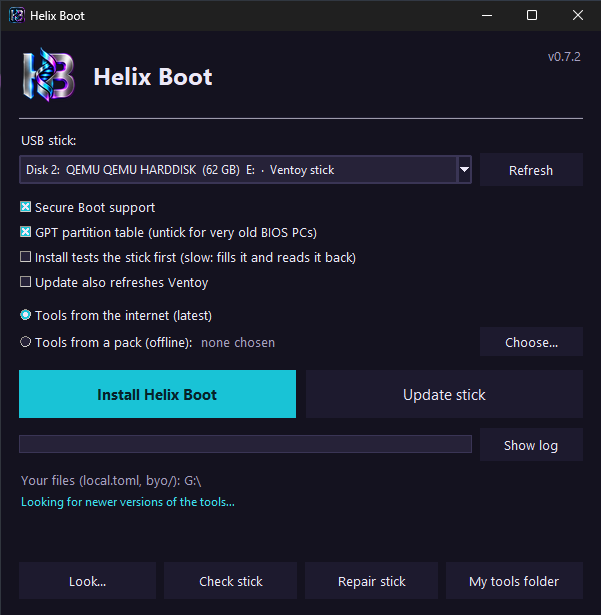
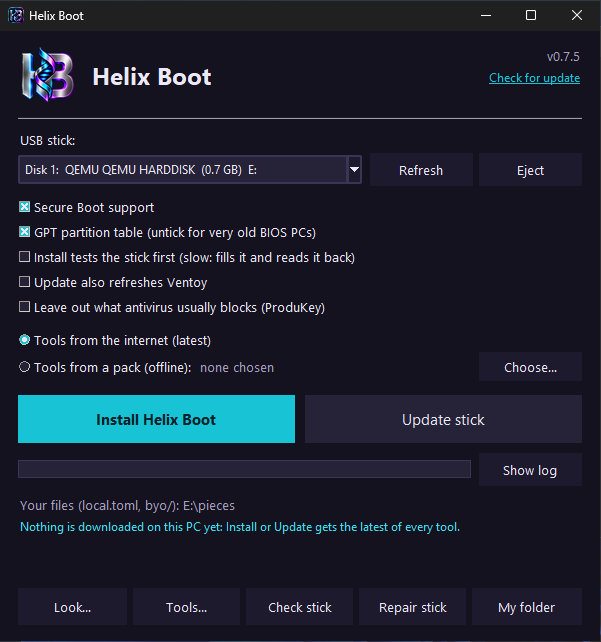
What was tried on real Windows today; the app's window centred; taking a stick back from a VM waits for it to be replugged

diff --git a/windows/helix_boot.py b/windows/helix_boot.py
@@ -836,7 +836,11 @@ def gui(selftest: bool = False) -> int:
 
     root = tk.Tk()
     root.title(APP)
-    root.geometry(f"{WINDOW[0]}x{WINDOW[1]}")
+    # In the middle of the screen, a little above it: where the system would put it, the bottom row
+    # can end up under the taskbar on a small screen (1366 x 768, or a virtual machine's).
+    across = max((root.winfo_screenwidth() - WINDOW[0]) // 2, 0)
+    down = max((root.winfo_screenheight() - WINDOW[1]) // 2 - 40, 0)
+    root.geometry(f"{WINDOW[0]}x{WINDOW[1]}+{across}+{down}")
     root.minsize(WINDOW[0] - 40, WINDOW[1] - 20)
     apply_theme(root)
     set_icon(root)

diff --git a/docs/testing.md b/docs/testing.md
@@ -1,0 +1,82 @@
+# Testing on real hardware
+
+The tests in `tests/` and CI cover the engine, the apps' logic and booting in a
+virtual PC. This page is for what only a real stick, a real Windows or a real
+person can show. Each line says what to do and what should happen; the table
+at the end records what has been tried.
+
+## Windows app
+
+Run `HelixBoot.exe` on a Windows PC, or in a Windows VM with the stick handed
+to it (`scripts/vm-stick.sh give <vm>`).
+
+1. **The window.** Every control is visible, the bottom row included, on a
+   small screen too.
+2. **Update stick**, tools from the internet. It shows what it will copy and
+   asks. The bar shows gigabytes copied. It ends with "Done".
+3. **Check stick.** It reads everything back and reports 0 damaged.
+4. **Tools…** Untick a tool, Save, Update: it is removed. Tick it again,
+   Update: it is back.
+5. **Eject.** "… is ejected: safe to unplug", and the drive letter goes.
+6. **Check for update**, on a version older than the latest release. It
+   downloads, swaps itself, and offers to start the new version.
+7. **Install Helix Boot** on a spare stick, with **Install tests the stick
+   first** ticked. It asks for the disk number, tests, installs Ventoy and
+   fills the stick.
+8. **Repair stick** on a stick that an update says is damaged.
+9. On a PC whose antivirus blocks a tool: the install finishes, and the end
+   names the tool that was left out.
+
+## Linux window
+
+`./HelixBoot-linux-x86_64`, or `python3 linux/helix_gui.py` from a clone.
+
+1. **Update stick** and **Check stick**, as above.
+2. **Install Helix Boot** on a spare stick. The desktop's password dialog
+   appears once, for Ventoy. The stick is filled and mounted.
+3. **Eject.** The stick is unmounted and switched off.
+4. **Repair stick.** The password dialog appears, `fsck` runs, the stick is
+   mounted again.
+5. `--add-launcher`: Helix Boot is in the applications menu and starts from it.
+
+## Mac
+
+On a Mac, with the stick plugged in: `./HelixBoot-mac-arm64` (or `-x86_64`).
+
+1. `list` shows the stick. `update` asks, then updates it. `check` passes.
+2. One Mac tool from the stick's `Mac` folder opens.
+3. `self-update`, on a version older than the latest release.
+
+## Booting the stick on a real PC
+
+1. The splash shows for a second, then the menu, with icons.
+2. **L** opens the power menu (reboot, power off). **F1** starts Memtest86+.
+3. One image from each category boots.
+4. Lazarus PE: the taskbar shows, and the launcher lists the apps.
+5. On a Secure Boot PC: the first boot asks to enrol Ventoy's key.
+
+## Sharing a pack
+
+1. `helix pack --public --split`, then on a Windows PC: double-click
+   `build-stick.cmd` in the pieces folder. It joins, checks and starts the app,
+   and the app finds the pack.
+
+## What has been tried
+
+| What | Where | Result |
+|---|---|---|
+| Windows app: the window, all controls, five buttons in the bottom row | Windows 11 VM, 0.7.5 | Works. On a 1280 x 800 screen Windows placed it with the bottom row under the taskbar: it is centred from the next release |
+| Windows app: Tools… | Windows 11 VM, 0.7.5 | Opens, lists every tool by category |
+| Windows app: Eject | Windows 11 VM, 0.7.5, real stick | Works: "F: is ejected: safe to unplug" |
+| Windows app: self-update | Windows 11 VM, 0.7.4 to 0.7.5 | Works: downloaded, verified, swapped, the old program kept aside |
+| Windows app: a tool blocked by antivirus | A friend's PC, 0.7.3 | Works: the tool is left out and named |
+| Windows app: Update stick | Windows 11 VM, 0.6.9 | Worked then; not repeated since |
+| `build-stick.cmd` made by `helix pack --split` | Windows 11 VM | Works: joined 3 pieces, checked, took the app out, started it |
+| `scripts/vm-stick.sh give` / `take` | This PC, real stick | `give` works. After Eject in Windows the stick is switched off, so `take` needs it replugged: it now says so and waits |
+| Linux window: Update stick | This PC, real stick, 0.7.3 | Works |
+| Linux window: Install, Eject, Repair, the launcher | | Not tried |
+| Windows app: Install with the stick test, Repair stick, Update on 0.7.5 | | Not tried |
+| "Start the new version now?" after an update in the window | | Not tried (the swap itself was, from the command line) |
+| Mac program on a real Mac | | Not tried (CI runs it on GitHub's Macs, against disk images) |
+| Booting the stick on a real PC: L, F1, Lazarus's taskbar, Secure Boot | | Not tried (CI boots it in a virtual PC) |
+| A public, split pack opened on someone else's PC | | Not tried |

diff --git a/CHANGELOG.md b/CHANGELOG.md
@@ -16,7 +16,12 @@ tagged releases also publish the Windows app.
   and mounted here again only after it is detached. Nothing is added to the
   VM's settings.
 
+### Fixed
+- The app's window opens in the middle of the screen. Where Windows put it on
+  a small screen, the bottom row of buttons could be under the taskbar.
+
 ### Changed
+- [What has been tried on real hardware](docs/testing.md), and what hasn't.
 - `scripts/release.sh` waits for CI on the commit it is about to release, and
   stops if a run failed or was cancelled.
 - CI downloads and verifies every tool (about 4 GB) on the weekly run, for a

diff --git a/docs/engine.md b/docs/engine.md
@@ -109,8 +109,9 @@ take it when it starts.
 
 To use the stick in a VM, hand it over: `scripts/vm-stick.sh give win11`
 unmounts it here and attaches it to the running VM; eject it inside the VM
-when you are done, then `scripts/vm-stick.sh take win11` detaches it and
-mounts it here again.
+when you are done, then `scripts/vm-stick.sh take win11` detaches it. A stick
+that Windows ejected has switched itself off, so `take` asks you to unplug it
+and plug it in again, and mounts it here when it is back.
 
 ## When a tool's site is down
 

diff --git a/README.md b/README.md
@@ -528,7 +528,7 @@ and splash, saving a look, and how the default theme is put together.
 | | Checksums and build attestations on every release | 0.6.6 |
 | | Hardening: the confirmed disk is the one written, plain file trees only, pinned download sites | 0.6.11 – 0.6.13 |
 
-The [changelog](CHANGELOG.md) has every release in detail.
+The [changelog](CHANGELOG.md) has every release in detail. [Testing on real hardware](docs/testing.md) says what has been tried on a real stick, Windows and Mac, and what hasn't.
 
 ## Contributing
 
